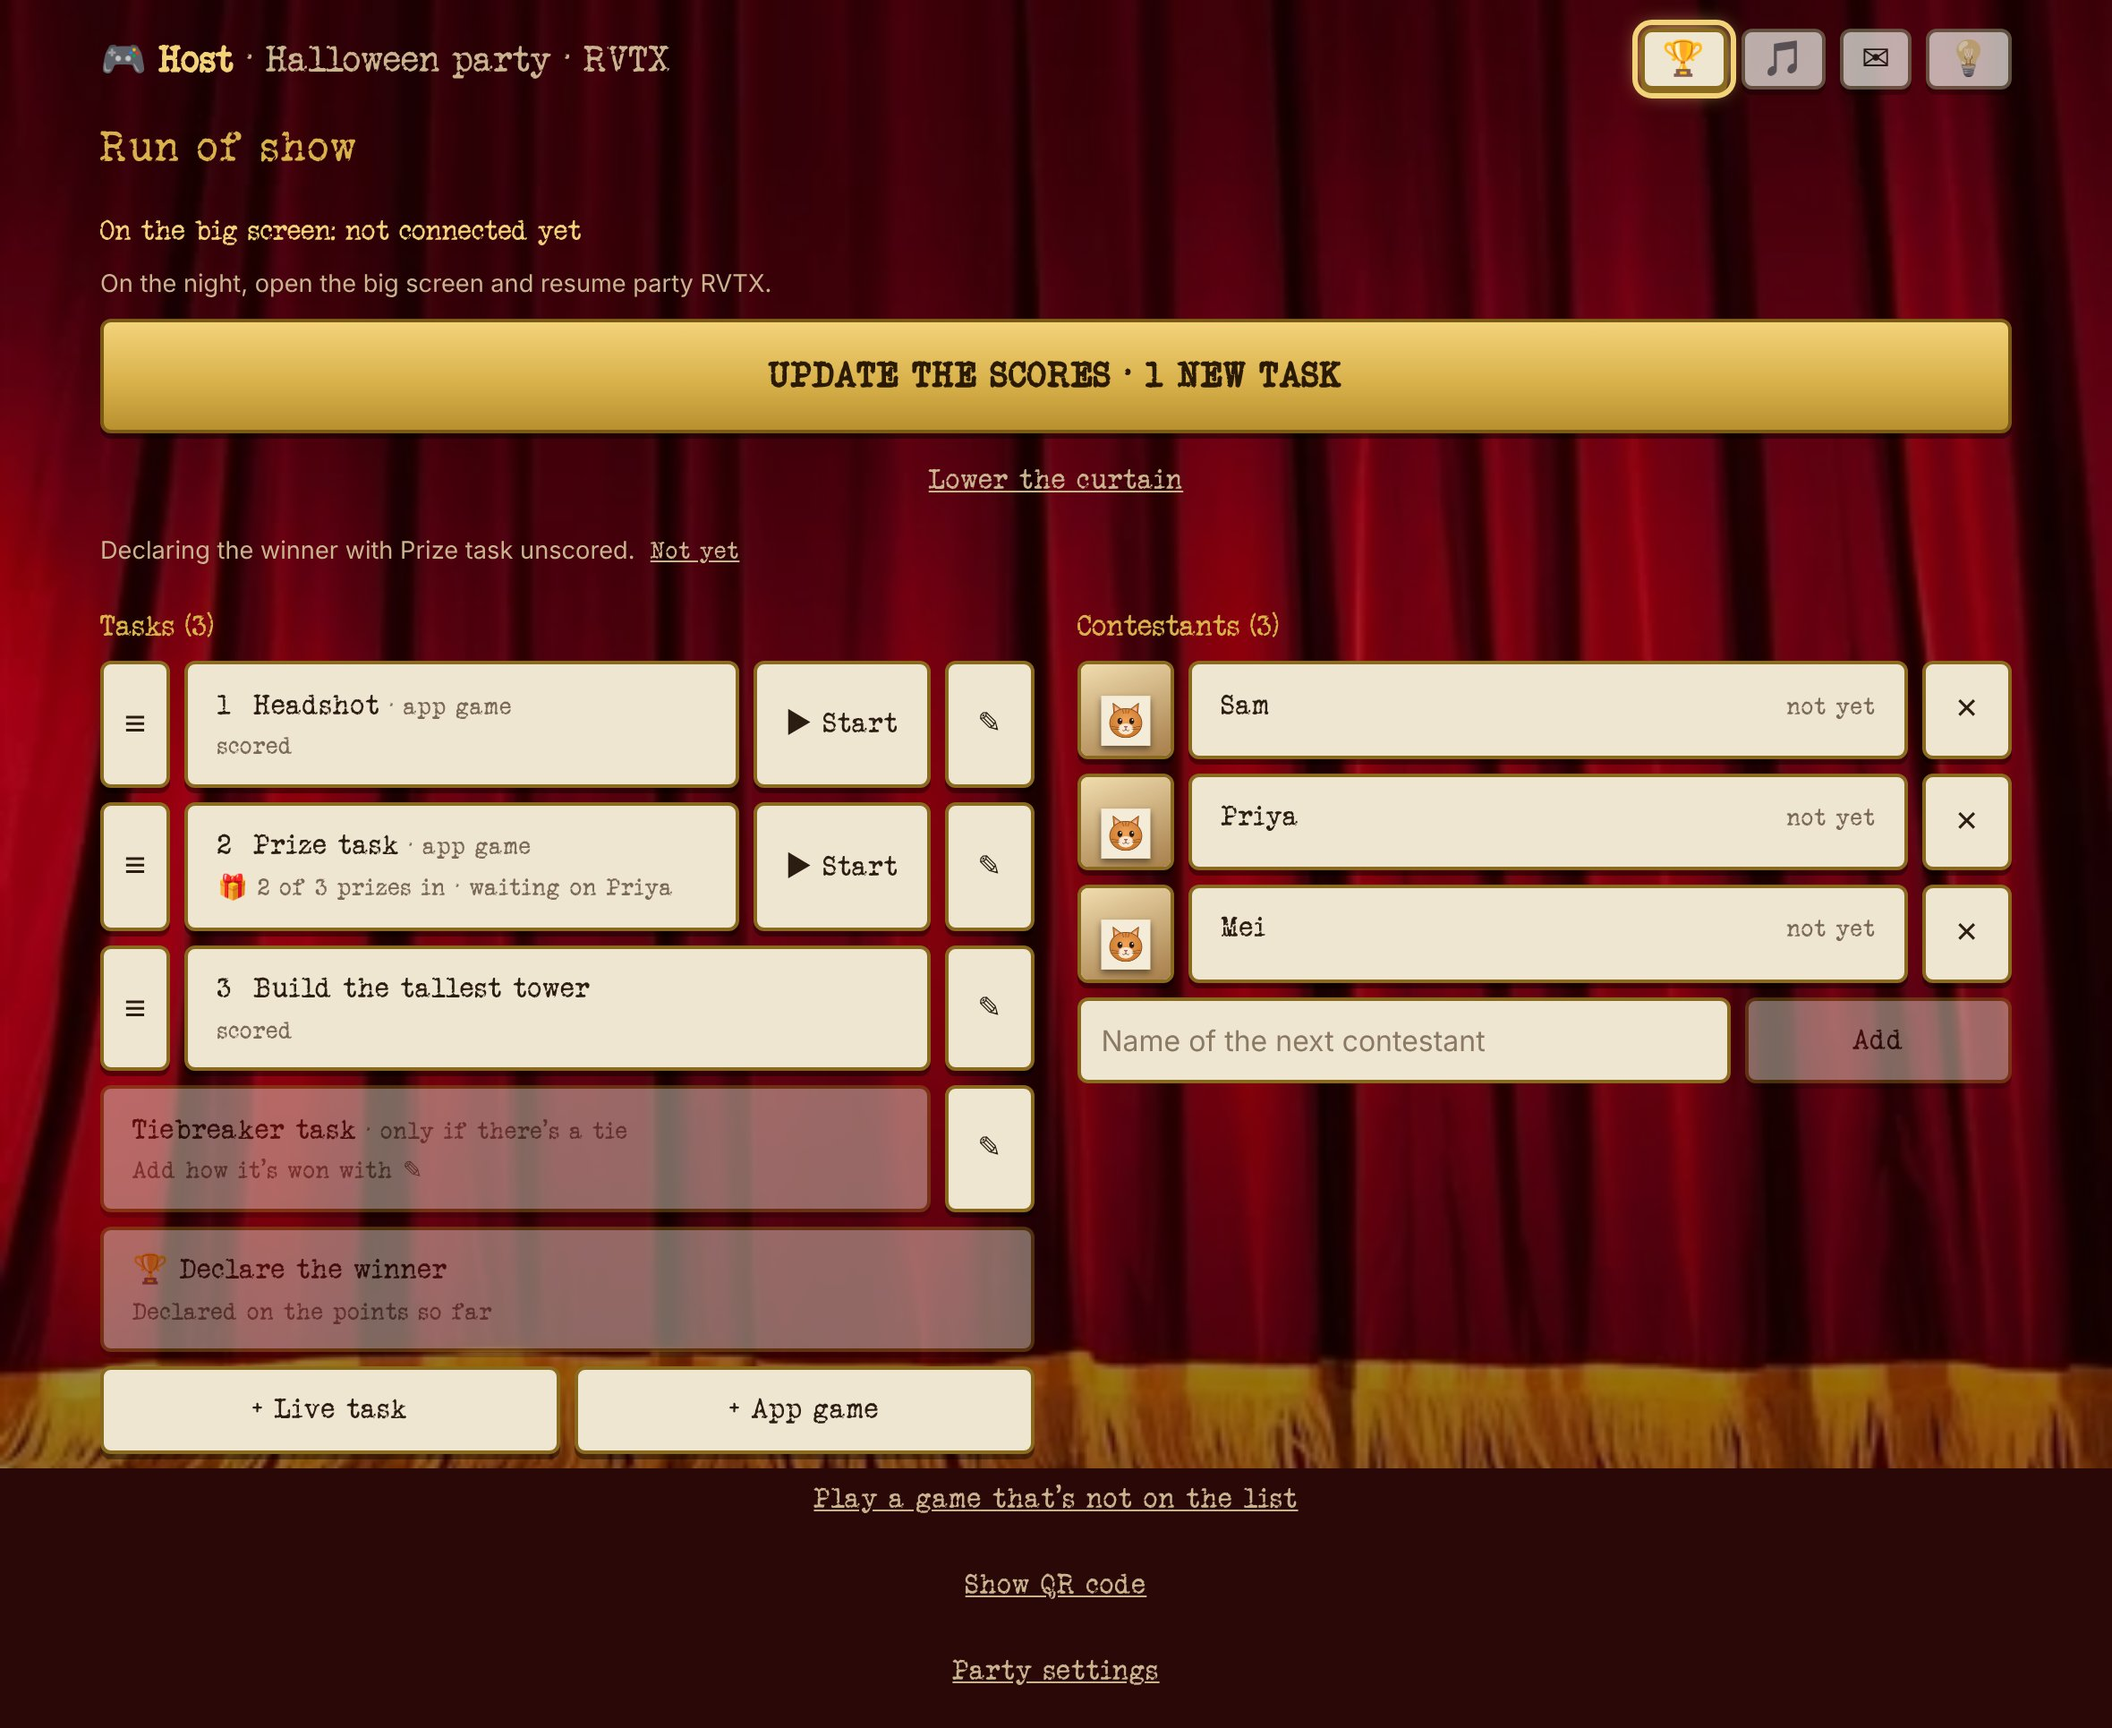
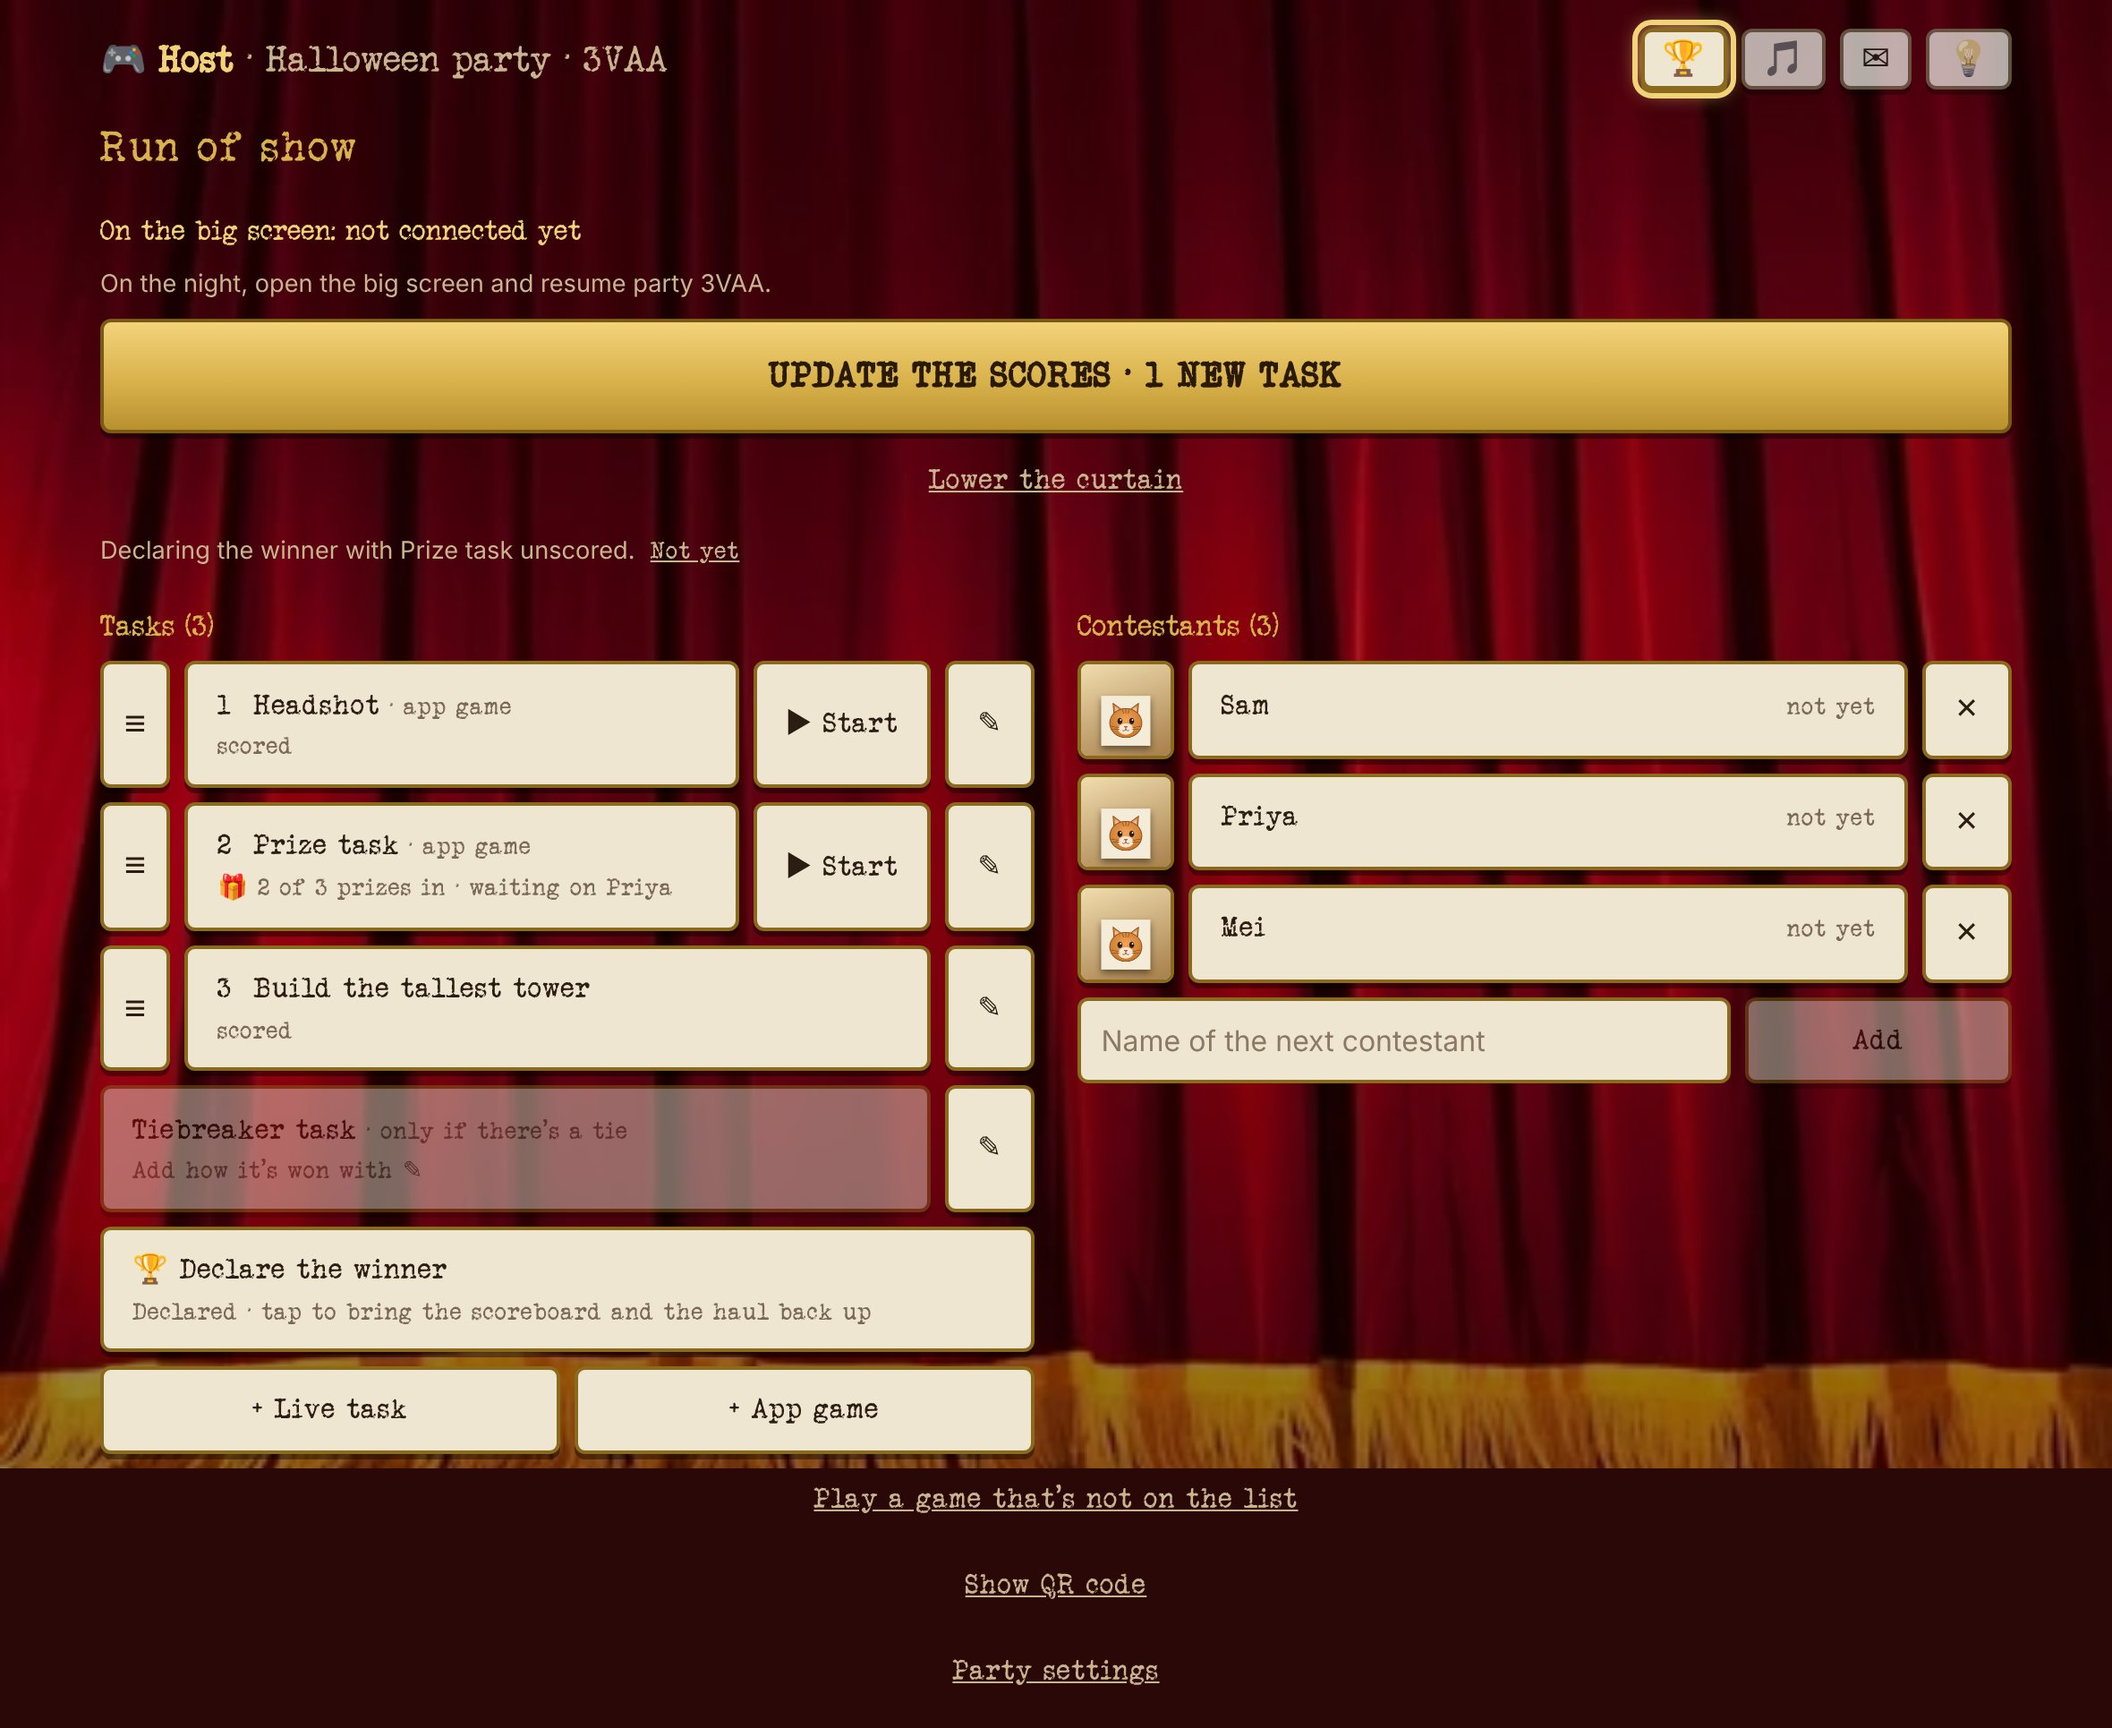
Declare the winner: available once any task has points, and again after declaring
Claude-Session: https://claude.ai/code/session_014ghUjXRQwwSCMqfFBR6KAW

Changed region(s): [[0.0309, 0.6839, 0.4949, 0.8083], [0.2784, 0.0, 0.3093, 0.0622], [0.3403, 0.1554, 0.3712, 0.1865]]

diff --git a/src/scoreboard/ScoreboardRemote.tsx b/src/scoreboard/ScoreboardRemote.tsx
@@ -263,8 +263,8 @@ function TaskList({ code, board, tasks, next, prizeNote, onOpen, onTiebreak, onS
   const [adding, setAdding] = useState<"live" | "game">();
   const [editing, setEditing] = useState<string>();
   const ids = tasks.map(([id]) => id);
-  // Only needed while some tasks are scored and some aren't: with all of them in, the haul comes by itself.
-  const declarable = !board?.final && tasks.some(([, t]) => scored(t)) && tasks.some(([, t]) => !scored(t));
+  // Any time once a task has points. Tapping it again after declaring brings the scoreboard (and the haul button) back.
+  const declarable = tasks.some(([, t]) => scored(t));
   const [dragging, setDragging] = useState<{ id: string; order: string[] }>();
   const rows = useRef<Record<string, HTMLLIElement | null>>({});
   const order = dragging?.order ?? ids;
@@ -334,9 +334,9 @@ function TaskList({ code, board, tasks, next, prizeNote, onOpen, onTiebreak, onS
             onClick={() => { void declareWinner(code); window.scrollTo(0, 0); }}>
             <span className="sb-task-title">🏆 Declare the winner</span>
             <span className="muted small sb-task-note">
-              {board?.final ? "Declared on the points so far"
-                : !tasks.some(([, t]) => scored(t)) ? "Once a task has points"
-                : declarable ? "Ends the night on the points so far, with one last update" : "Every task has points"}
+              {!declarable ? "Once a task has points"
+                : board?.final ? "Declared · tap to bring the scoreboard and the haul back up"
+                : "The scoreboard for one last update, then the prize haul"}
             </span>
           </button>
         </li>

diff --git a/docs/redesign-decisions.md b/docs/redesign-decisions.md
@@ -237,7 +237,7 @@ Each contestant brings a prize; the winner takes the whole haul. Today the Prize
 | Hanging the haul | One by one, like a gallery being hung: the headshot first, then a prize every 0.6s (the usual hang animation), filling from the centre outwards and alternating sides. With reduced motion, everything appears at once. | All at once: one by one builds the moment. |
 | Calling the haul (host) | On the run of show while the scoreboard is up, once every task has points and the last update has been run: gold "🎁 Show the prize haul · Priya" takes the place of gold "Lower the curtain", which becomes a link under it. The winner's name on the button confirms who the room is about to see. With a tie at the top, there's no haul button: the tiebreaker task takes its place (see Tiebreaker task). | A haul button on the prize task's own page: the haul comes at the end of the party, after the scores, not after presenting. Picking a winner among the tied: a tie is played off. |
 | Waiting on points (host) | While a task still has no points, the run of show says why there's no haul button: "The prize haul comes once every task has points. Still none for Prize task." The haul doesn't wait on prizes: with no prize photos (a party from before guests could send them), the haul is the winner's headshot alone. | No line (the first build): Jeffrey scored his tasks, never saw the button, and had nothing to tell him why. Holding the haul until a prize has photos: the night would end with no winner on the big screen. |
-| Declaring the winner (host) | "🏆 Declare the winner" as the last row of the task list, under the Tiebreaker task, enabled whenever some task has points but not all of them do, so the night can end before every task is played. Greyed otherwise, saying why ("Once a task has points", "Every task has points", "Declared on the points so far"). It puts the scoreboard up; if there are points not yet shown, the gold button is "Update the scores" for one last update; then the haul button (or the tiebreaker, on a tie) as at the end of a full night, the winner decided on the points so far. A muted line says "Declaring the winner with Prize task unscored." with a "Not yet" link to take it back. | Waiting for every task (the first build): Jeffrey needed to end a party with tasks unplayed and had no way to call it. Going straight to the haul: the room should see the final scores first. A button under the show controls (the first version): Jeffrey wanted it in the list, under the Tiebreaker task. |
+| Declaring the winner (host) | "🏆 Declare the winner" as the last row of the task list, under the Tiebreaker task, enabled once any task has points, so the night can end before every task is played (and it's the one place to go for the winner however the night went). Once declared, tapping it again brings the scoreboard and the haul button back up. It puts the scoreboard up; if there are points not yet shown, the gold button is "Update the scores" for one last update; then the haul button (or the tiebreaker, on a tie) as at the end of a full night, the winner decided on the points so far. A muted line says "Declaring the winner with Prize task unscored." with a "Not yet" link to take it back. | Waiting for every task (the first build): Jeffrey needed to end a party with tasks unplayed and had no way to call it. Going straight to the haul: the room should see the final scores first. A button under the show controls (the first version): Jeffrey wanted it in the list, under the Tiebreaker task. Greying it out once every task had points or once declared: Jeffrey wants it there to get back to the winner any time. |
 | The haul up (host) | Gold "Lower the curtain", and a quiet "Back to the scoreboard" link. | |
 | A prize picked (host) | On a wide iPad: the list on the left, and "Priya's prize" on the right with her photos as large previews in her order, ★ on the first. "Tap a photo to put it on the big screen." Then a paper "+ Add photos" and "Lower the curtain" (disabled while nothing is up). No gold until a photo is on the big screen, which then gets the gold ring. Tapping another name switches straight to them. On a phone the two stack. | A separate screen per contestant (Before & After's): jumping from one guest to another would need a trip back to the list. |
 | A photo up | Tapping a preview hangs that photo in the gold frame on the big screen, labelled "prize · Priya", as a headshot hangs. On the remote it gets the gold ring and "on the big screen", the line above the list reads "On the big screen: Priya's prize, photo 2", and "Lower the curtain" wakes up. Tapping another preview (or another guest's) switches straight to it. | Previous / Next on the stage's backup bar: the host picks each photo, so there's no order to step through. |

diff --git a/docs/screens/README.md b/docs/screens/README.md
@@ -88,8 +88,9 @@ Scoreboard (taken on 2026-10-12, from the real components with made-up sessions;
 | `run-of-show-host-haul-waiting.jpg` | The run of show with the scoreboard up and a task still without points: "The prize haul comes once every task has points. Still none for Prize task." over gold "Lower the curtain" |
 | `main-prize-haul-winner-only.jpg` | The prize haul when no prize has photos: "Prize Haul" and the winner's headshot alone, "Priya is the winner!" |
 | `run-of-show-host-declare.jpg` | The run of show mid-party with a task still unscored: "🏆 Declare the winner" in the task list, under the Tiebreaker task |
-| `run-of-show-host-declare-update.jpg` | After "Declare the winner": the scoreboard is up, gold "Update the scores · 1 new task" for one last update, and "Declaring the winner with Prize task unscored. Not yet", and the task list's declare row greyed as declared |
+| `run-of-show-host-declare-update.jpg` | After "Declare the winner": the scoreboard is up, gold "Update the scores · 1 new task" for one last update, and "Declaring the winner with Prize task unscored. Not yet" |
 | `run-of-show-host-declare-haul.jpg` | After that last update: gold "🎁 Show the prize haul · Priya", the winner decided on the points so far |
+| `run-of-show-host-declared.jpg` | Back at the curtain after the haul: the declare row reads "Declared · tap to bring the scoreboard and the haul back up" |
 
 Tiebreaker task (taken on 2026-10-13, from the real components with a made-up party):
 
